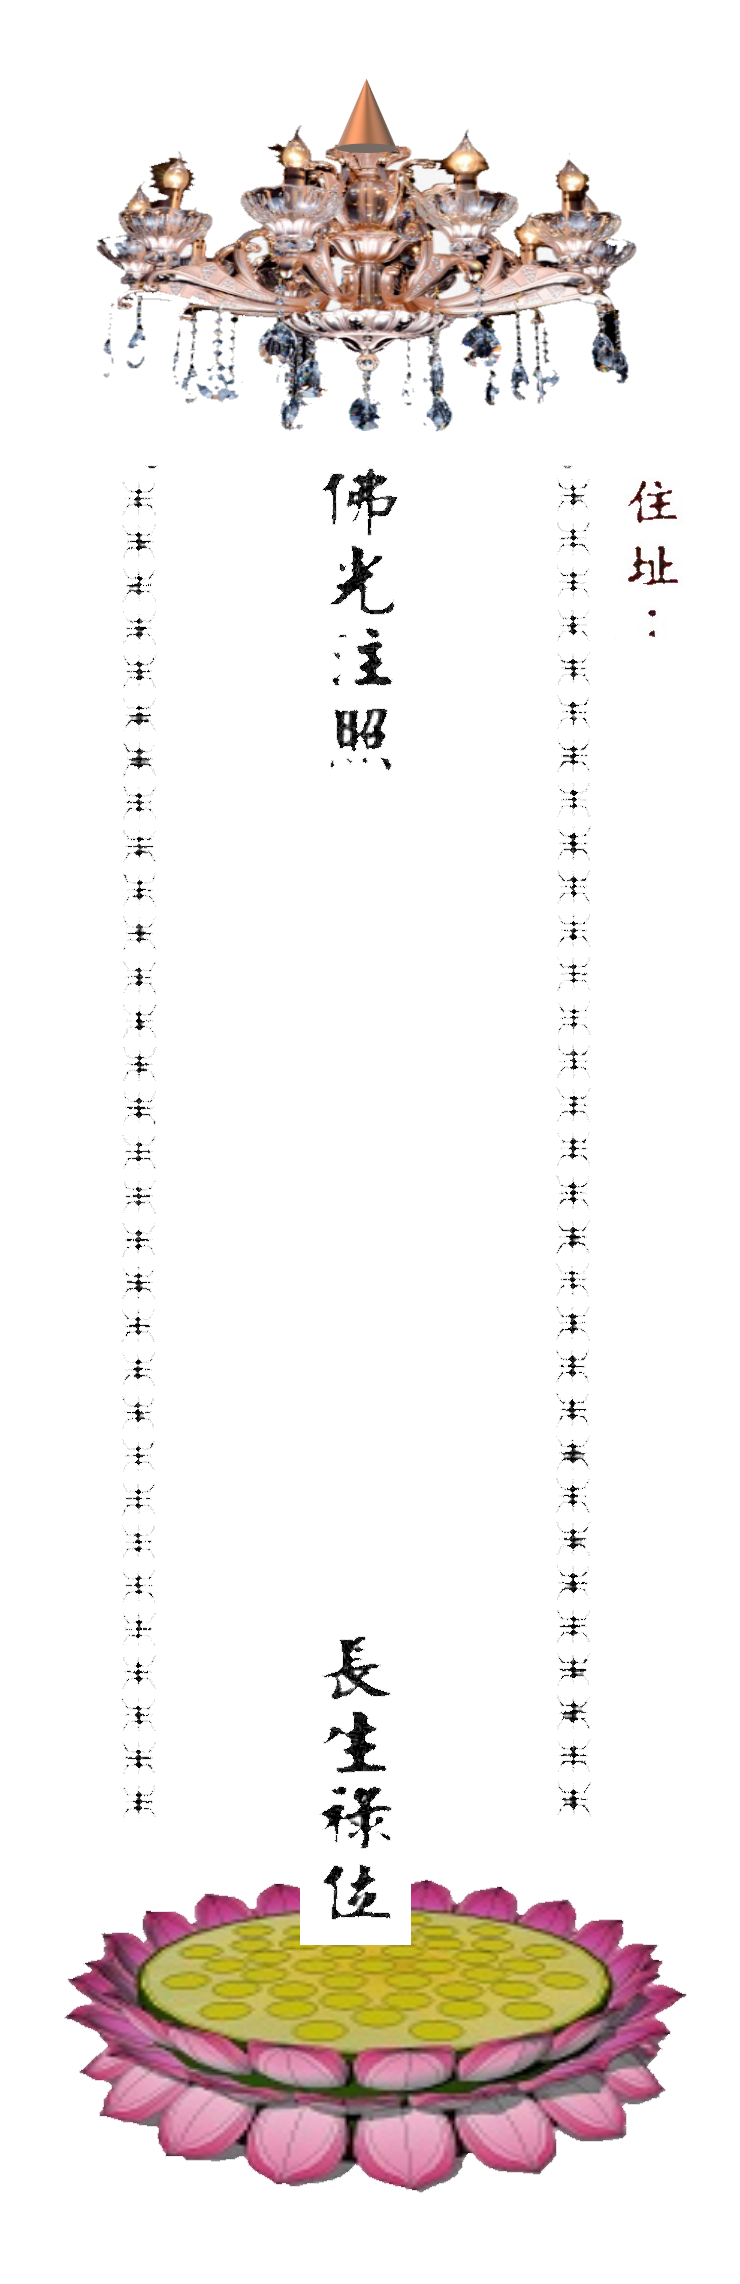
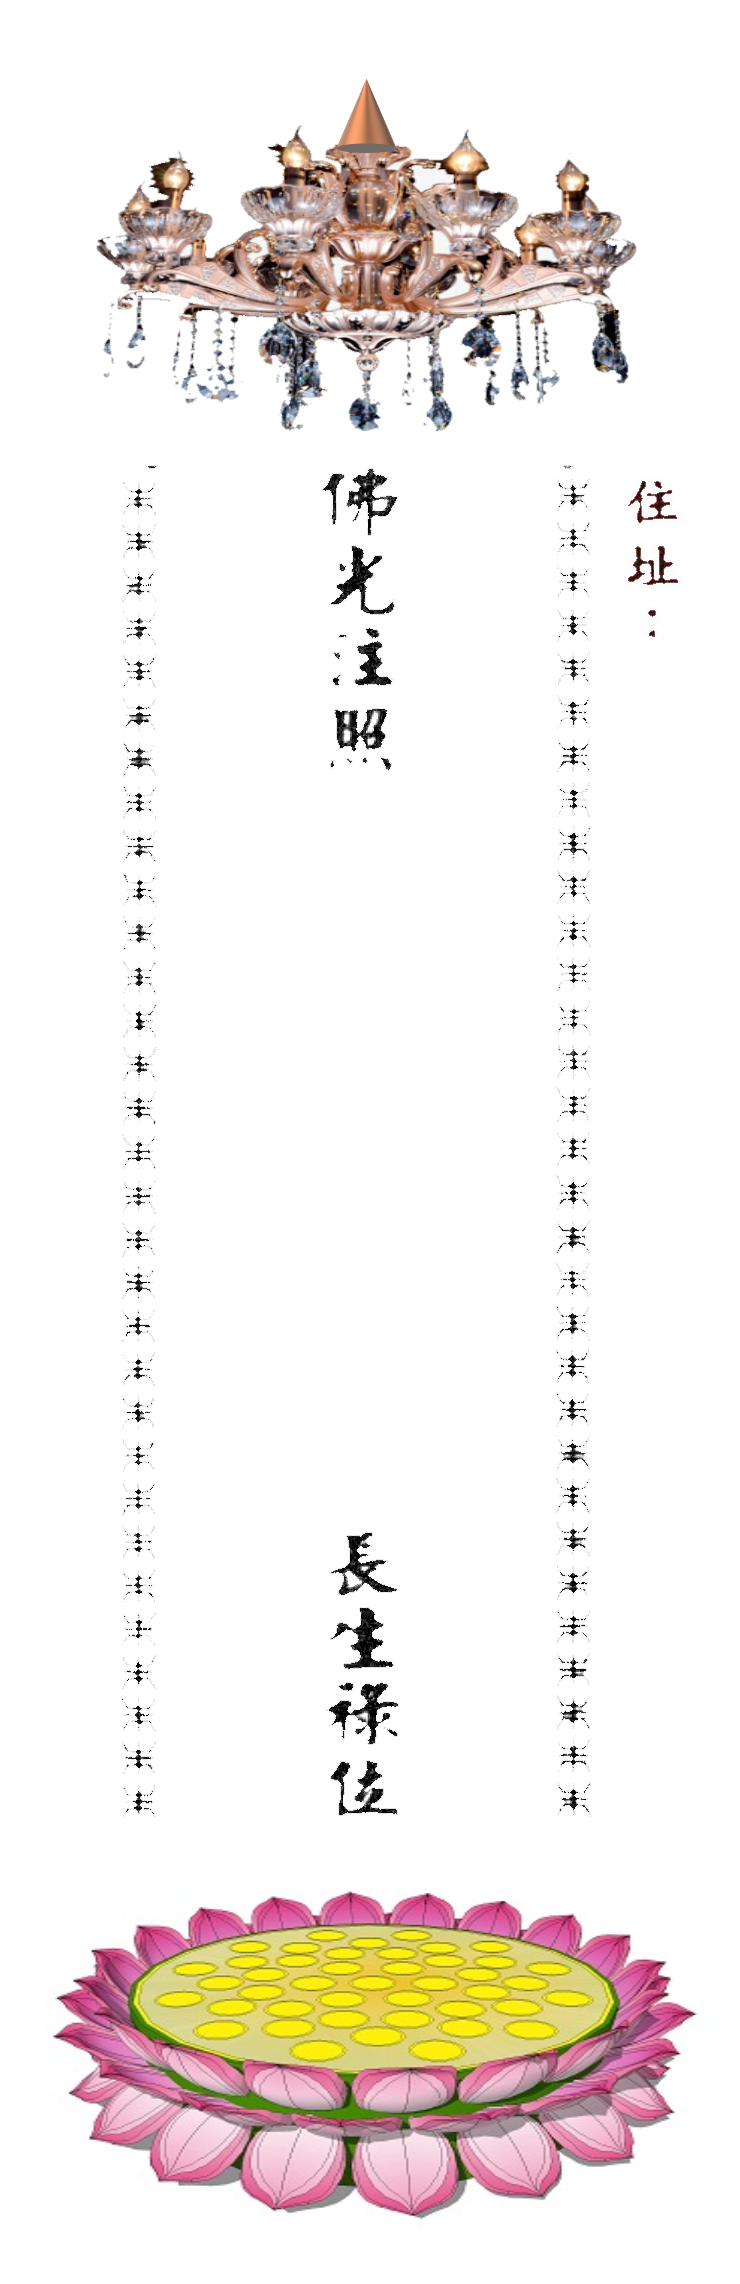
7 month add WG bhikkhuni

Changed region(s): [[0.0622, 0.6528, 0.9324, 0.9947]]

diff --git a/七月牌位列印.html b/七月牌位列印.html
@@ -32,7 +32,16 @@
         
         .wun {
             /*背景圖片*/
-            background-image: url(pic/wun.jpg);
+            background-image: url(pic/wun-1.png);
+            /*滿版列印*/
+            background-size: 100% 100%;
+            /*有邊界列印
+            background-size: 98% 100%;*/
+        }
+        
+        .wun2 {
+            /*背景圖片*/
+            background-image: url(pic/wun2-1.png);
             /*滿版列印*/
             background-size: 100% 100%;
             /*有邊界列印
@@ -95,6 +104,10 @@
             text-align: left;
         }
         
+        span {
+            background: white;
+        }
+        
         .sit2 {
             /*會亂跑 昭穆宗親
             position: absolute;*/
@@ -125,6 +138,7 @@
             height: 35px;
             background: yellowgreen;
             color: black;
+            border-radius: 15px;
         }
         
         #btn1,
@@ -143,16 +157,18 @@
             background: orange;
         }
         
-        #btnW {
+        #btnW,
+        #btnwun {
             background: snow;
         }
         
         #btn7,
-        #btn8 {
+        #btn8,
+        #btnP {
             background: lightblue;
         }
         
-        #btnwun {
+        #btnwun2 {
             background: pink;
         }
         /** {
@@ -261,7 +277,7 @@ tr:hover{background: wheat;}*/
                 // 設定可不呈現
                 e.style.display = showSit
                 e.setAttribute('class', 'sit1')
-                e.innerHTML = '往生蓮位'
+                e.innerHTML = '<span>往生蓮位</span>'
                 aDiv.appendChild(e)
 
                 // 陽上人
@@ -400,7 +416,13 @@ tr:hover{background: wheat;}*/
             // 悟光精舍版牌位，一張A4中有10個牌位
             btnwun.onclick = function () {
                 addLiveDead('wun', 'name2', '', '', 'none', 'block')
-                change.innerHTML = '#div1>div {width: 36mm;height: 135mm;}.address{margin: 38mm 1mm 0 0;font-size: 12pt;width: 6mm;}.name2 {font-size: 18pt;width: 18mm;height: 65mm;margin: 30mm 3mm 0 0;}.son {font-size: 12pt;width: 5mm;height: 50mm;margin: 86mm 1mm 0 0;}'
+                change.innerHTML = '#div1>div {width: 36mm;height: 135mm;font-family: 標楷體;border:0;}.address{margin: 38mm 1mm 0 0;font-size: 12pt;width: 6mm;}.name2 {font-size: 18pt;width: 18mm;height: 65mm;margin: 28mm 3mm 0 0;}.son {font-size: 12pt;width: 5mm;height: 50mm;margin: 86mm 1mm 0 0;}'
+            }
+
+            // 悟光精舍版祿位，一張A4中有10個牌位
+            btnwun2.onclick = function () {
+                addLiveDead('wun2', 'name2', '', '', 'none', 'none')
+                change.innerHTML = '#div1>div {width: 36mm;height: 135mm;font-family: 標楷體;border:0;}.address{margin: 38mm 1mm 0 0;font-size: 12pt;width: 6mm;}.name2 {font-size: 18pt;width: 18mm;height: 65mm;margin: 28mm 3mm 0 0;}.son {font-size: 12pt;width: 5mm;height: 50mm;margin: 86mm 1mm 0 0;}'
             }
 
             // 祿位名字，不可超過4人(12個字)
@@ -417,7 +439,7 @@ tr:hover{background: wheat;}*/
             // 祖先姓氏，不可超過3個字
             btn3.onclick = function () {
                 addLiveDead('dead', 'name2', '60mm', '<div class="sit2">氏歷代祖先<br/>昭穆宗親', 'block', 'block')
-                // 用css語法來調整字距，另外加一個<style>標籤
+                // 字體改小一點，可寫4字。用css語法來調整字距，另外加一個<style>標籤
                 change.innerHTML = '.name2{margin:72mm 10mm 0 0;font-size:20pt;}.sit1{margin:-120mm -18mm 0 0;}.son{margin:102mm 5mm 0 0;}'
             }
 
@@ -425,6 +447,11 @@ tr:hover{background: wheat;}*/
             btn4.onclick = function () {
                 // 用css語法來調整字距，另外加一個<style>標籤
                 change.innerHTML = '.name1 {margin: 70mm 9mm 0 0;}.name2 {margin: 72mm 11mm 0 0;}.sit1 {margin: -120mm -19mm 0 0;}.son {margin: 102mm 4mm 0 0;}'
+            }
+
+            btnP.onclick = function () {
+                SitColor('-other', '4')
+                changeColor.innerHTML += '.live{background-size: 107% 95%;}.dead{background-size: 97% 99%;}.name1{transform: scale(0.7,0.7);}'
             }
 
             // 範例：
@@ -484,13 +511,15 @@ tr:hover{background: wheat;}*/
     <input type="button" id="btnR" value="紅色蓮座" onclick="SitColor('2','2')" />
     <input type="button" id="btnY" value="金色蓮座" onclick="SitColor('3','3')" />
     <input type="button" id="btnW" value="黑白蓮座" onclick="SitColor('','')" />
+    <input type="button" id="btnP" value="敦煌華蓋" />
     <hr/>
     <input type="button" id="btn5" value="排序人名資料" />
     <input type="button" id="btn6" value="排序祖先資料" />
     <input type="button" id="btn7" value="HK人名1轉3" />
     <input type="button" id="btn8" value="HK人名轉消災" />
     <hr/>
-    <input type="button" id="btnwun" value="悟光精舍版" />
+    <input type="button" id="btnwun2" value="悟光精舍消災祿位" />
+    <input type="button" id="btnwun" value="悟光精舍往生牌位" />
     <input id="reload" type="button" value="重整頁面" onclick="javascript:window.location.reload()" />
     <br/>
     <textarea id="txt1" placeholder="在此輸入要迴向超渡的往生者姓名、要超渡的祖先姓氏、要消災的人名，
@@ -504,46 +533,26 @@ tr:hover{background: wheat;}*/
         祖先姓氏，不可超過3個字；陽上人不可超過2人(6個字)
 若一次要寫多人，而且準備日後重複使用資料，可用「試算表excel」寫資料，再用email寄來！ adb.dao@gmail.com
 撰寫範例如下：
-">張三三	台中市北屯區松竹路1段8號	何九九 石一二 何九九 石一二 何九九 石一二
+">張三三	台中市北屯區松竹路1段8號	何九九
 張三三 李四四	台中市北屯區松竹路1段8號	何九九 何九九 石一二 何九九 石一二 何九九 石一二
 張三三 李四四 王五五	台中市北屯區松竹路1段8號	何九九 石一二 何九九 石一二
+張三三 李四四 王五五 趙六六	台中市北屯區松竹路1段8號	何九九 石一二
 張三三 李四四 王五五 趙六六 王五五 趙六六	台中市北屯區松竹路1段8號	何九九
-張三三 李四四 王五五 趙六六	台中市北屯區松竹路1段8號	何九九
-張三三	台中市北屯區松竹路1段8號	何九九 石一二 何九九 石一二 何九九 石一二
+張三三	台中市北屯區松竹路1段8號	何九九
 張三三 李四四	台中市北屯區松竹路1段8號	何九九 何九九 石一二 何九九 石一二 何九九 石一二
 張三三 李四四 王五五	台中市北屯區松竹路1段8號	何九九 石一二 何九九 石一二
+張三三 李四四 王五五 趙六六	台中市北屯區松竹路1段8號	何九九 石一二
 張三三 李四四 王五五 趙六六 王五五 趙六六	台中市北屯區松竹路1段8號	何九九
-張三三 李四四 王五五 趙六六	台中市北屯區松竹路1段8號	何九九
-張三三	台中市北屯區松竹路1段8號	何九九 石一二 何九九 石一二 何九九 石一二
+張三三	台中市北屯區松竹路1段8號	何九九
 張三三 李四四	台中市北屯區松竹路1段8號	何九九 何九九 石一二 何九九 石一二 何九九 石一二
 張三三 李四四 王五五	台中市北屯區松竹路1段8號	何九九 石一二 何九九 石一二
+張三三 李四四 王五五 趙六六	台中市北屯區松竹路1段8號	何九九 石一二
 張三三 李四四 王五五 趙六六 王五五 趙六六	台中市北屯區松竹路1段8號	何九九
-張三三 李四四 王五五 趙六六	台中市北屯區松竹路1段8號	何九九
-張三三	台中市北屯區松竹路1段8號	何九九 石一二 何九九 石一二 何九九 石一二
+張三三	台中市北屯區松竹路1段8號	何九九
 張三三 李四四	台中市北屯區松竹路1段8號	何九九 何九九 石一二 何九九 石一二 何九九 石一二
 張三三 李四四 王五五	台中市北屯區松竹路1段8號	何九九 石一二 何九九 石一二
-張三三 李四四 王五五 趙六六 王五五 趙六六	台中市北屯區松竹路1段8號	何九九
-張三三 李四四 王五五 趙六六	台中市北屯區松竹路1段8號	何九九
-張三三	台中市北屯區松竹路1段8號	何九九 石一二 何九九 石一二 何九九 石一二
-張三三 李四四	台中市北屯區松竹路1段8號	何九九 何九九 石一二 何九九 石一二 何九九 石一二
-張三三 李四四 王五五	台中市北屯區松竹路1段8號	何九九 石一二 何九九 石一二
-張三三 李四四 王五五 趙六六 王五五 趙六六	台中市北屯區松竹路1段8號	何九九
-張三三 李四四 王五五 趙六六	台中市北屯區松竹路1段8號	何九九
-張三三	台中市北屯區松竹路1段8號	何九九 石一二 何九九 石一二 何九九 石一二
-張三三 李四四	台中市北屯區松竹路1段8號	何九九 何九九 石一二 何九九 石一二 何九九 石一二
-張三三 李四四 王五五	台中市北屯區松竹路1段8號	何九九 石一二 何九九 石一二
-張三三 李四四 王五五 趙六六 王五五 趙六六	台中市北屯區松竹路1段8號	何九九
-張三三 李四四 王五五 趙六六	台中市北屯區松竹路1段8號	何九九
-張三三	台中市北屯區松竹路1段8號	何九九 石一二 何九九 石一二 何九九 石一二
-張三三 李四四	台中市北屯區松竹路1段8號	何九九 何九九 石一二 何九九 石一二 何九九 石一二
-張三三 李四四 王五五	台中市北屯區松竹路1段8號	何九九 石一二 何九九 石一二
-張三三 李四四 王五五 趙六六 王五五 趙六六	台中市北屯區松竹路1段8號	何九九
-張三三 李四四 王五五 趙六六	台中市北屯區松竹路1段8號	何九九
-張三三	台中市北屯區松竹路1段8號	何九九 石一二 何九九 石一二 何九九 石一二
-張三三 李四四	台中市北屯區松竹路1段8號	何九九 何九九 石一二 何九九 石一二 何九九 石一二
-張三三 李四四 王五五	台中市北屯區松竹路1段8號	何九九 石一二 何九九 石一二
-張三三 李四四 王五五 趙六六 王五五 趙六六	台中市北屯區松竹路1段8號	何九九
-張三三 李四四 王五五 趙六六	台中市北屯區松竹路1段8號	何九九</textarea>
+張三三 李四四 王五五 趙六六	台中市北屯區松竹路1段8號	何九九 石一二
+張三三 李四四 王五五 趙六六 王五五 趙六六	台中市北屯區松竹路1段8號	何九九</textarea>
     <!--
 彭新松 薛清梅 鈕先鉞 張佩華	新北市永和區豫溪街50號2樓
 彭俊陽 鈕則謙	新北市永和區豫溪街50號2樓
